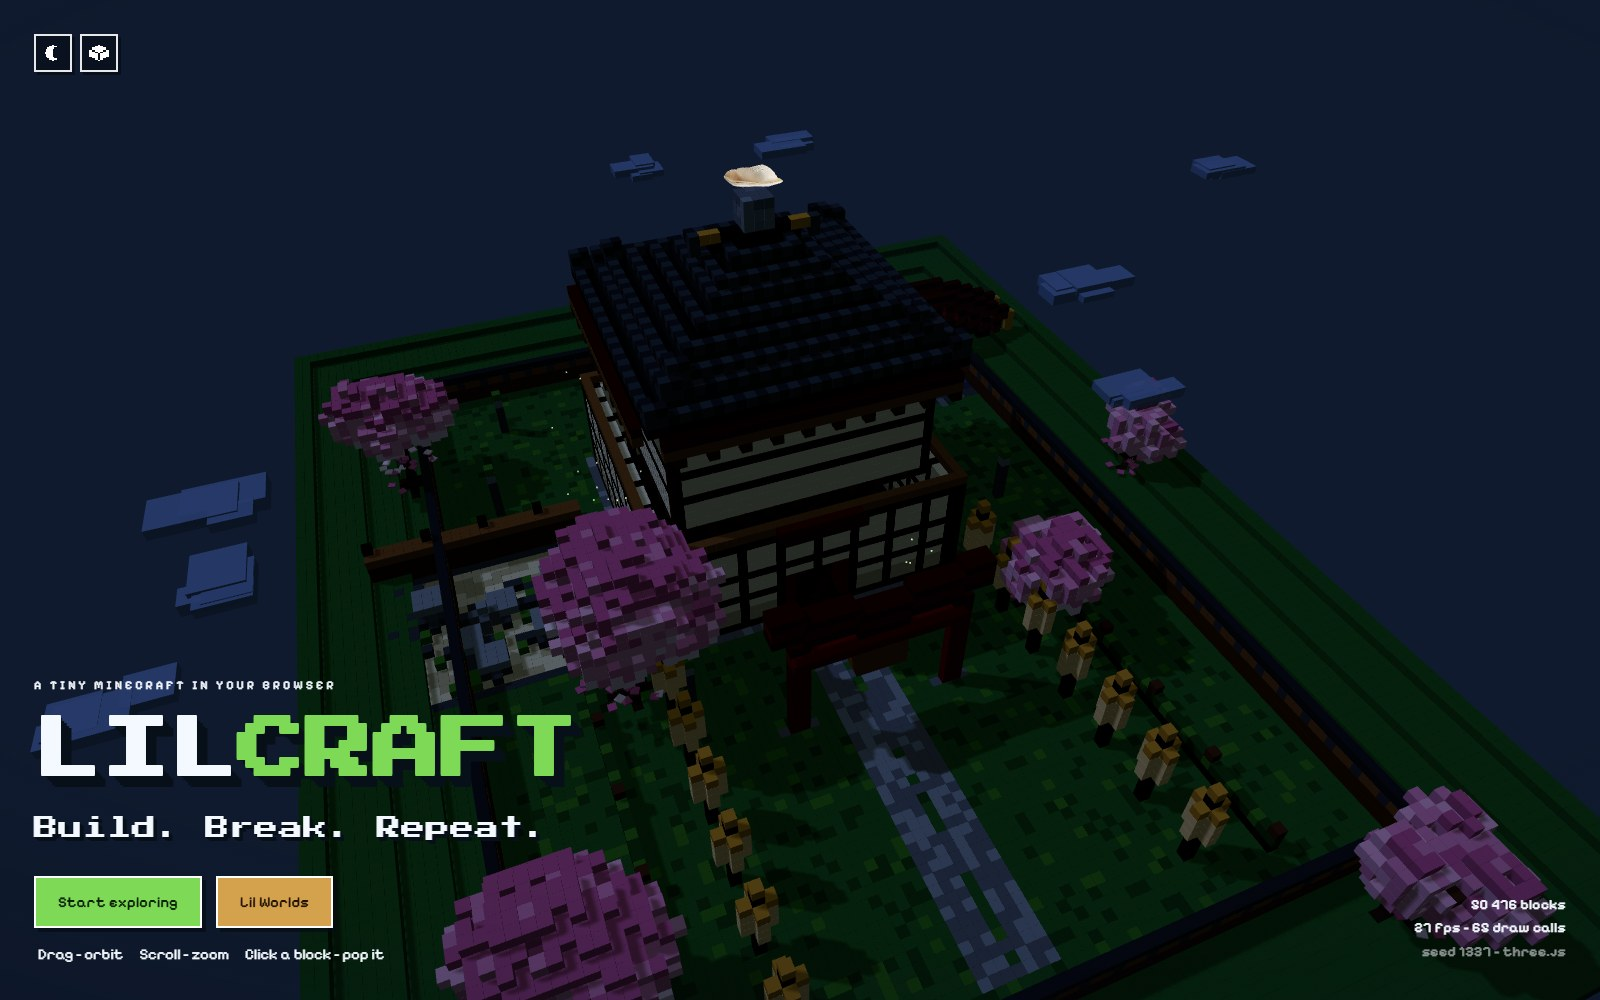
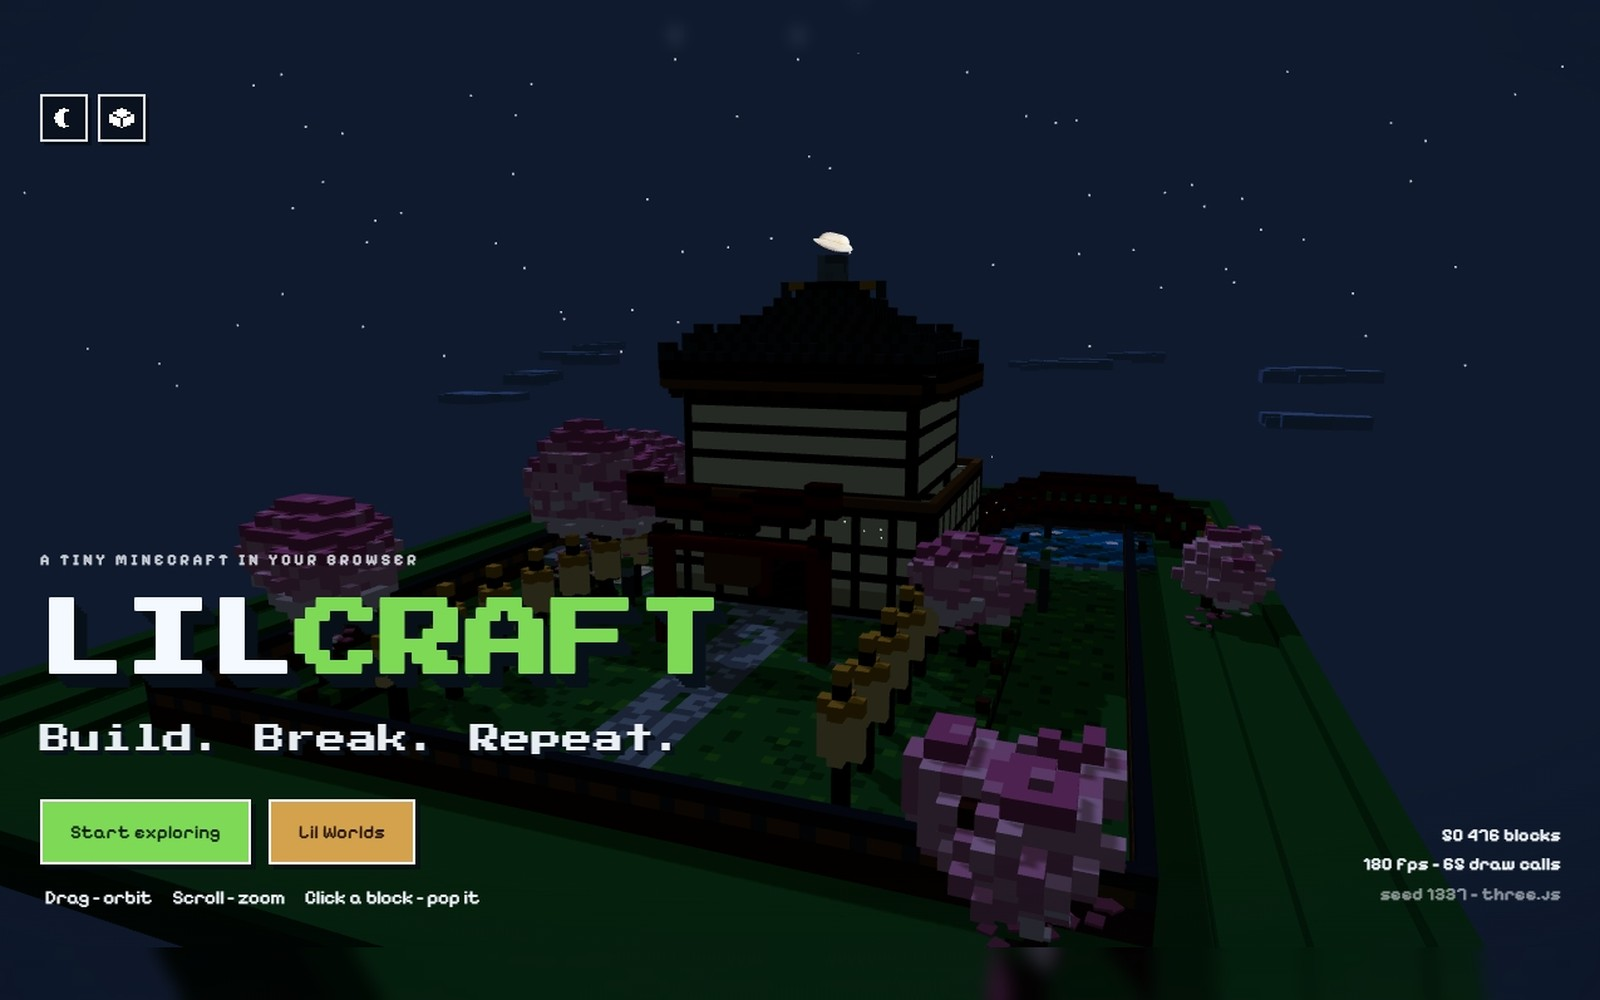
Месяц - тонкий серп, серая светлая тема, роль AI Full-Stack Engineer
Переключатель темы:
- месяц набран полосами шириной до 8 юнитов и читался полукругом; теперь
  толщина 2-3 юнита, симметричный серп;
- светлая тема была голубовато-белой: убран тёплый кремовый радиальный слой
  (он выбеливал первый экран), палитра переведена в нейтрально серую, фон
  идёт от #cfd2d6 сверху до #b1b6bd к подвалу.

Контент:
- роль: Full-Stack AI Engineer -> AI Full-Stack Engineer (title, h1, og:alt,
  данные, шаблон og:image), og-v2.jpg перегенерирован;
- превью LILCRAFT заменено на новый скрин: приведено к 16:10 (как у карточки)
  дополнением по высоте, а не обрезкой по бокам - иначе срезались иконки
  и счётчики FPS по краям кадра.

.gitattributes: assets/data/projects.js помечен -text. Файл лежит в
репозитории с CRLF, и core.autocrlf=true переводил его в LF - каждый коммит
показывал полную перезапись (255 строк) вместо двух изменённых.

diff --git a/assets/css/style.css b/assets/css/style.css
@@ -68,33 +68,34 @@
 
 html[data-theme="light"] {
   /* Светлая тема намеренно НЕ белая: белый лист на весь экран слепит и
-     обесценивает карточки — им нечем быть светлее фона. Здесь холодный
-     серый с синим подтоном, а карточки на пару ступеней светлее фона. */
-  --bg:        #e2e6ec;
-  --surface:   #edf0f5;
-  --surface-2: #e4e9ef;
-  --line:      rgba(20,30,45,.12);
-  --line-2:    rgba(20,30,45,.22);
-  --text:      #131a26;
-  --muted:     #4d5867;
-  --dim:       #6b7686;
+     обесценивает карточки — им нечем быть светлее фона. Палитра нейтрально
+     серая, без синего подтона (он читался как голубой), а карточки на пару
+     ступеней светлее фона. */
+  --bg:        #c8ccd1;
+  --surface:   #e6e7ea;
+  --surface-2: #dcdee1;
+  --line:      rgba(30,32,36,.15);
+  --line-2:    rgba(30,32,36,.26);
+  --text:      #1a1c20;
+  --muted:     #4e5257;
+  --dim:       #6d7177;
   --accent:    #2f5fe0;
   --accent-2:  #0f8a80;
   --accent-3:  #6d3fd8;
   --ok:        #15803d;
-  --btn:        #dce1e9;
-  --btn-hover:  #d1d8e1;
-  --btn-line:   rgba(20,30,45,.20);
-  --btn-line-2: rgba(20,30,45,.36);
-  --btn-line-3: rgba(20,30,45,.50);
-  --mon-1: #e5e9ef;
-  --mon-2: #c1c8d3;
-  --mon-stand-1: #dce1e8;
-  --mon-stand-2: #bac1cc;
-  --mon-line: rgba(20,30,45,.18);
-  --shadow:    0 18px 40px -28px rgba(20,30,45,.5);
-  --shadow-lg: 0 34px 70px -34px rgba(20,30,45,.45);
-  --grad-head: linear-gradient(180deg, #131a26 28%, #6b7686);
+  --btn:        #d4d6d9;
+  --btn-hover:  #c9ccd0;
+  --btn-line:   rgba(30,32,36,.20);
+  --btn-line-2: rgba(30,32,36,.36);
+  --btn-line-3: rgba(30,32,36,.50);
+  --mon-1: #dfe0e3;
+  --mon-2: #bcbec2;
+  --mon-stand-1: #d4d6d9;
+  --mon-stand-2: #b3b5ba;
+  --mon-line: rgba(30,32,36,.18);
+  --shadow:    0 18px 40px -28px rgba(20,22,26,.55);
+  --shadow-lg: 0 34px 70px -34px rgba(20,22,26,.5);
+  --grad-head: linear-gradient(180deg, #1a1c20 28%, #6d7177);
 
   /* Тот же объём, но в светлой теме выпуклость держит нижняя тень, а не
      верхняя нитка: на почти белом фоне подсветка сверху не читается. */
@@ -121,16 +122,18 @@ body {
   overflow-x: hidden;
 }
 
-/* Светлая тема — не заливка, а пасмурный петербургский день: холодный серый
-   с синим подтоном и мягкий тёплый свет сверху, будто солнце где-то за
-   облаками. Градиент закреплён за окном (background-attachment: fixed),
-   поэтому при прокрутке едет контент, а не полоса фона — освещение страницы
+/* Светлая тема — не заливка, а пасмурный петербургский день: ровный серый
+   градиент, светлее у верхней кромки и темнее к подвалу. Градиент закреплён
+   за окном (background-attachment: fixed), поэтому при прокрутке едет контент,
+   а не полоса фона — освещение страницы
    остаётся постоянным. */
 html[data-theme="light"] body {
-  background-color: #dde2e9;
-  background-image:
-    radial-gradient(135% 62% at 50% -14%, rgba(255,252,242,1) 0%, rgba(255,252,242,0) 62%),
-    linear-gradient(180deg, #edf0f5 0%, #e1e6ec 28%, #d2d9e2 66%, #c3cbd7 100%);
+  /* Ровный серый «пасмурного неба»: сверху светлее, к подвалу темнее.
+     Никакого тёплого пятна - кремовый радиальный слой у верхней кромки
+     выбеливал первый экран и спорил с серой палитрой.
+     attachment: fixed - градиент стоит на месте, контент едет по нему. */
+  background-color: #bcc0c6;
+  background-image: linear-gradient(180deg, #cfd2d6 0%, #c5c8cd 34%, #bbbfc5 70%, #b1b6bd 100%);
   background-repeat: no-repeat;
   background-attachment: fixed;
   background-size: cover;

diff --git a/index.html b/index.html
@@ -3,7 +3,7 @@
 <head>
 <meta charset="utf-8">
 <meta name="viewport" content="width=device-width, initial-scale=1">
-<title>Дмитрий О. - AI-Native Developer / Full-Stack AI Engineer</title>
+<title>Дмитрий О. - AI-Native Developer / AI Full-Stack Engineer</title>
 <meta name="description" content="AI-продукты полного цикла: исследование моделей, прототип, backend, деплой. Плюс собственные игры на Godot и three.js.">
 <meta name="color-scheme" content="dark light">
 <meta name="theme-color" content="#08090c">
@@ -14,7 +14,7 @@
 <meta property="og:image" content="https://dvodev.space/assets/img/og-v2.jpg">
 <meta property="og:image:width" content="1200">
 <meta property="og:image:height" content="630">
-<meta property="og:image:alt" content="Дмитрий О. - AI-Native Developer / Full-Stack AI Engineer">
+<meta property="og:image:alt" content="Дмитрий О. - AI-Native Developer / AI Full-Stack Engineer">
 <meta name="twitter:card" content="summary_large_image">
 <link rel="icon" href="assets/img/favicon.svg?v=2" type="image/svg+xml">
 <link rel="preload" as="image" href="assets/img/projects/hcai-2.jpg">
@@ -64,18 +64,18 @@
           <rect x="1" y="9" width="2" height="2"/><rect x="9" y="9" width="2" height="2"/>
         </svg>
         <svg class="ico ico--moon" viewBox="0 0 12 12" aria-hidden="true">
-          <rect x="4" y="0" width="4" height="1"/>
-          <rect x="3" y="1" width="6" height="1"/>
-          <rect x="2" y="2" width="7" height="1"/>
-          <rect x="1" y="3" width="8" height="1"/>
-          <rect x="1" y="4" width="7" height="1"/>
-          <rect x="0" y="5" width="7" height="1"/>
-          <rect x="0" y="6" width="7" height="1"/>
-          <rect x="1" y="7" width="7" height="1"/>
-          <rect x="1" y="8" width="8" height="1"/>
-          <rect x="2" y="9" width="7" height="1"/>
-          <rect x="3" y="10" width="6" height="1"/>
-          <rect x="4" y="11" width="4" height="1"/>
+          <rect x="5" y="0" width="2" height="1"/>
+          <rect x="3" y="1" width="3" height="1"/>
+          <rect x="2" y="2" width="3" height="1"/>
+          <rect x="1" y="3" width="3" height="1"/>
+          <rect x="1" y="4" width="2" height="1"/>
+          <rect x="0" y="5" width="3" height="1"/>
+          <rect x="0" y="6" width="3" height="1"/>
+          <rect x="1" y="7" width="2" height="1"/>
+          <rect x="1" y="8" width="3" height="1"/>
+          <rect x="2" y="9" width="3" height="1"/>
+          <rect x="3" y="10" width="3" height="1"/>
+          <rect x="5" y="11" width="2" height="1"/>
         </svg>
       </button>
     </div>
@@ -87,7 +87,7 @@
   <section class="sec sec--lead" id="projects">
     <div class="aurora" aria-hidden="true"><i></i><i></i><i></i></div>
     <div class="wrap">
-      <h1 class="lead__h reveal">AI-Native Developer / Full-Stack AI Engineer</h1>
+      <h1 class="lead__h reveal">AI-Native Developer / AI Full-Stack Engineer</h1>
       <div class="sec__bar">
         <h2 class="sec__h reveal"><span class="sec__num">01</span>Проекты</h2>
         <!-- Чипы-фильтры по тематике. Наполняются из данных: темы берутся из kind

diff --git a/assets/data/projects.js b/assets/data/projects.js
@@ -71,7 +71,7 @@
 
 window.SITE = {
   name: 'Дмитрий О.',
-  role: 'AI-Native Developer / Full-Stack AI Engineer',
+  role: 'AI-Native Developer / AI Full-Stack Engineer',
   tagline: 'AI-продукты полного цикла: исследование моделей, прототип, backend, деплой. Отдельно - свои игры на Godot и three.js.',
   location: 'Екатеринбург',
 
@@ -87,7 +87,7 @@ window.SITE = {
   // текста пустой строкой внутри того же абзаца (\n\n) — так сделано ниже
   // со «*Формат удаленной работы в приоритете.». Абзац без «*» — обычный текст.
   about: [
-    'AI-Native Developer / Full-Stack AI Engineer с опытом разработки AI-продуктов полного цикла - от исследования моделей и прототипирования до backend, интеграции и deployment. Специализируюсь на AI-driven development, проектировании AI-workflows и агентных систем, prompt engineering и evaluation моделей. Использую AI как часть инженерного процесса: автоматизирую разработку, тестирую и сравниваю модели, оптимизирую качество, скорость и затраты.',
+    'AI-Native Developer / AI Full-Stack Engineer с опытом разработки AI-продуктов полного цикла - от исследования моделей и прототипирования до backend, интеграции и deployment. Специализируюсь на AI-driven development, проектировании AI-workflows и агентных систем, prompt engineering и evaluation моделей. Использую AI как часть инженерного процесса: автоматизирую разработку, тестирую и сравниваю модели, оптимизирую качество, скорость и затраты.',
     'Люблю видеоигры. Увлекаюсь AI-Assisted Level Design, разрабатываю собственные мини-игровые проекты на Godot и Three.js с использованием AI-инструментов.\n\n*Формат удаленной работы в приоритете.'
   ]
 // facts: [

diff --git a/tools/og.html b/tools/og.html
@@ -60,7 +60,7 @@
       <img class="mark" src="../assets/img/logo.png" alt="">
       <h1>Дмитрий О.</h1>
     </div>
-    <div class="role">AI-Native Developer / Full-Stack AI Engineer</div>
+    <div class="role">AI-Native Developer / AI Full-Stack Engineer</div>
     <p class="lead">AI-продукты полного цикла: исследование моделей, прототип, backend, деплой. Отдельно - свои игры на Godot и three.js.</p>
 
     <div class="shots">

diff --git a/assets/js/app.js b/assets/js/app.js
@@ -890,7 +890,7 @@
       var meta = document.querySelector('meta[name="theme-color"]');
       if (meta) {
         meta.setAttribute('content',
-          document.documentElement.getAttribute('data-theme') === 'light' ? '#e2e6ec' : '#08090c');
+          document.documentElement.getAttribute('data-theme') === 'light' ? '#c8ccd1' : '#08090c');
       }
     }
     syncMeta();
